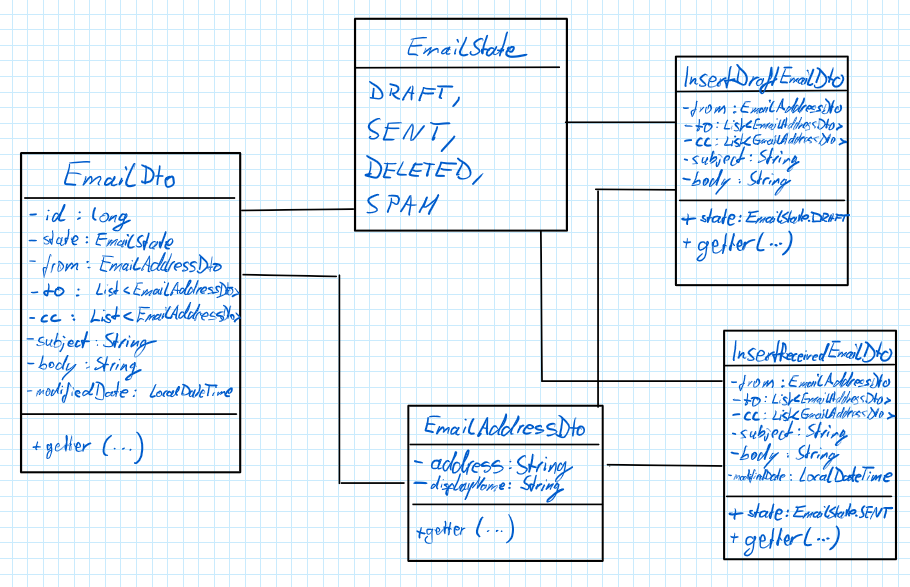
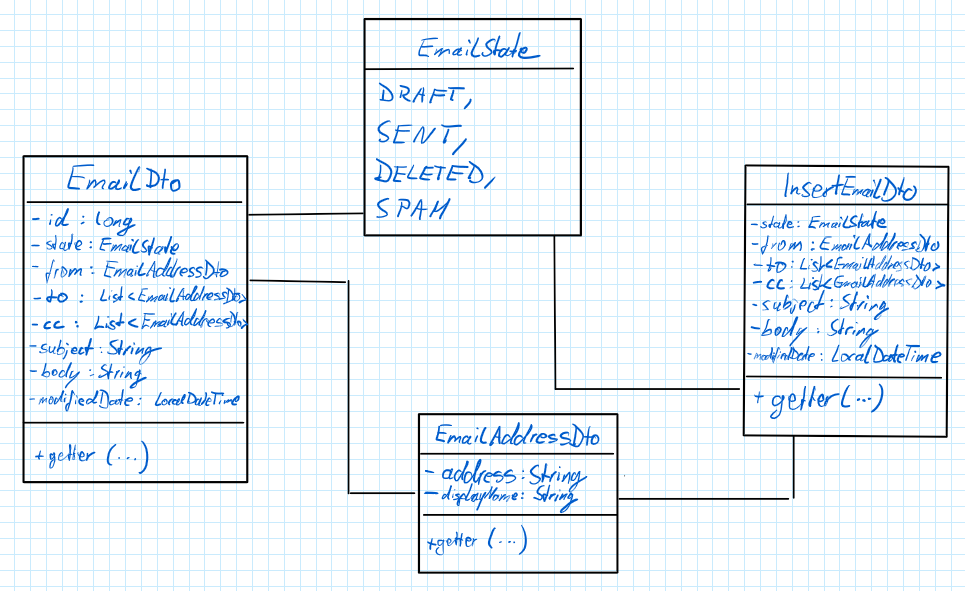
Merges both insert DTOs to one single DTO

diff --git a/src/test/java/de/jjakobus/emailrestservice/EmailRestServiceAppIT.java b/src/test/java/de/jjakobus/emailrestservice/EmailRestServiceAppIT.java
@@ -5,8 +5,7 @@ import de.jjakobus.emailrestservice.model.EmailAddress;
 import de.jjakobus.emailrestservice.model.EmailState;
 import de.jjakobus.emailrestservice.model.dtos.EmailAddressDto;
 import de.jjakobus.emailrestservice.model.dtos.EmailDto;
-import de.jjakobus.emailrestservice.model.dtos.InsertDraftEmailDto;
-import de.jjakobus.emailrestservice.model.dtos.InsertReceivedEmailDto;
+import de.jjakobus.emailrestservice.model.dtos.InsertEmailDto;
 import de.jjakobus.emailrestservice.service.repositories.EmailAddressRepository;
 import de.jjakobus.emailrestservice.service.repositories.EmailRepository;
 import org.junit.jupiter.api.BeforeEach;
@@ -111,15 +110,15 @@ class EmailRestServiceAppIT {
   /* Test CRUD endpoints exemplary. */
 
   @Test
-  void shouldInsertDraftMail() {
+  void shouldInsertMail() {
     // Given
-    InsertDraftEmailDto newDraftEmail = getNewDraftEmail();
+    InsertEmailDto newEmail = getNewEmail();
 
     // When
     ResponseEntity<EmailDto> response =
         restTemplate.postForEntity(
-            baseRequestAddress + "/insert-draft",
-            newDraftEmail,
+            baseRequestAddress + "/insert",
+            newEmail,
             EmailDto.class);
     EmailDto returnedEmail = response.getBody();
 
@@ -130,8 +129,8 @@ class EmailRestServiceAppIT {
     assertThat(returnedEmail)
         .as("Returned email should be present (not null).")
         .isNotNull()
-        .as("Returned stored email should contain all information from inserted draft email.")
-        .matches(email -> containsAllInformationFromInsertDraftDto(email, newDraftEmail));
+        .as("Returned stored email should contain all information from inserted email.")
+        .matches(storedEmail -> containsAllInformationFromInsertDto(storedEmail, newEmail));
     assertThat(emailRepository.findEmailById(returnedEmail.id()))
         .as("Inserted email should be present in store.")
         .isPresent().get()
@@ -140,63 +139,15 @@ class EmailRestServiceAppIT {
   }
 
   /**
-   * Checks whether given {@link EmailDto} contains all the information given by the {@link InsertDraftEmailDto}.
+   * Checks whether given {@link EmailDto} contains all the information given by the {@link InsertEmailDto}.
    *
    * @param email email to check
-   * @param insertDto inserted draft email
+   * @param insertDto inserted email
    * @return whether email contains all information
    */
-  private static boolean containsAllInformationFromInsertDraftDto(
+  private static boolean containsAllInformationFromInsertDto(
       EmailDto email,
-      InsertDraftEmailDto insertDto) {
-
-    return insertDto.state().equals(EmailState.DRAFT)
-        && insertDto.from().equals(email.from())
-        && insertDto.to().equals(email.to())
-        && insertDto.cc().equals(email.cc())
-        && insertDto.subject().equals(email.subject())
-        && insertDto.body().equals(email.body());
-  }
-
-  @Test
-  void shouldInsertReceivedMail() {
-    // Given
-    InsertReceivedEmailDto newReceivedEmail = getNewReceivedEmail();
-
-    // When
-    ResponseEntity<EmailDto> response =
-        restTemplate.postForEntity(
-            baseRequestAddress + "/insert-received",
-            newReceivedEmail,
-            EmailDto.class);
-    EmailDto returnedEmail = response.getBody();
-
-    // Then
-    assertThat(response.getStatusCode())
-        .as("HTTP status should be 201 (created).")
-        .isEqualTo(HttpStatus.CREATED);
-    assertThat(returnedEmail)
-        .as("Returned email should be present (not null).")
-        .isNotNull()
-        .as("Returned stored email should contain all information from inserted received email.")
-        .matches(email -> containsAllInformationFromInsertReceivedDto(email, newReceivedEmail));
-    assertThat(emailRepository.findEmailById(returnedEmail.id()))
-        .as("Inserted email should be present in store.")
-        .isPresent().get()
-        .as("Service-side mail should be equal to returned email.")
-        .returns(true, returnedEmail::equals);
-  }
-
-  /**
-   * Checks whether given {@link EmailDto} contains all the information given by the {@link InsertReceivedEmailDto}.
-   *
-   * @param email email to check
-   * @param insertDto inserted received email
-   * @return whether email contains all information
-   */
-  private static boolean containsAllInformationFromInsertReceivedDto(
-      EmailDto email,
-      InsertReceivedEmailDto insertDto) {
+      InsertEmailDto insertDto) {
 
     return insertDto.state().equals(EmailState.SENT)
         && insertDto.from().equals(email.from())
@@ -310,29 +261,14 @@ class EmailRestServiceAppIT {
   }
 
   /**
-   * Returns a new draft email that is not stored in database yet.
+   * Returns a new email that is not stored in database yet.
    *
-   * @return new draft email
+   * @return new email
    */
-  private static InsertDraftEmailDto getNewDraftEmail() {
+  private static InsertEmailDto getNewEmail() {
 
-    return new InsertDraftEmailDto(
-        new EmailAddressDto("peter.mueller@gmx.de", "Peter Müller <peter.mueller(a)gmx.de>"),
-        List.of(),
-        List.of(),
-        "Test subject",
-        ""
-    );
-  }
-
-  /**
-   * Returns a new received email that is not stored in database yet.
-   *
-   * @return new received email
-   */
-  private static InsertReceivedEmailDto getNewReceivedEmail() {
-
-    return new InsertReceivedEmailDto(
+    return new InsertEmailDto(
+        EmailState.DRAFT,
         new EmailAddressDto("juergen.vogel@web.de", null),
         List.of(
             new EmailAddressDto("peter.mueller@gmx.de", "Peter Müller <peter.mueller(a)gmx.de>")),

diff --git a/src/main/java/de/jjakobus/emailrestservice/model/dtos/InsertEmailDto.java b/src/main/java/de/jjakobus/emailrestservice/model/dtos/InsertEmailDto.java
@@ -8,10 +8,9 @@ import java.util.List;
 import static java.util.Objects.requireNonNull;
 
 /**
- * Representation of a new received email that should get inserted. Received emails already have a date which gets used
- * as creation (and modified) date. But no ID is present because those are unique to this server, only.
- * State is "SENT" always.
+ * Representation of a new email that should get inserted. Those email do not have an ID yet.
  *
+ * @param state state of the email
  * @param from sender address
  * @param to receiver addresses
  * @param cc "carbon copy" receiver addresses
@@ -20,7 +19,8 @@ import static java.util.Objects.requireNonNull;
  * @param modifiedDate date of the email received (= last modification date)
  * @author jjakobus
  */
-public record InsertReceivedEmailDto(
+public record InsertEmailDto(
+    EmailState state,
     EmailAddressDto from,
     List<EmailAddressDto> to,
     List<EmailAddressDto> cc,
@@ -28,27 +28,20 @@ public record InsertReceivedEmailDto(
     String body,
     LocalDateTime modifiedDate) {
 
-  public InsertReceivedEmailDto(
+  public InsertEmailDto(
+      EmailState state,
       EmailAddressDto from,
       List<EmailAddressDto> to,
       List<EmailAddressDto> cc,
       String subject,
       String body,
       LocalDateTime modifiedDate) {
+    this.state = requireNonNull(state, "state must not be null.");
     this.from = requireNonNull(from, "from must not be null.");
     this.to = requireNonNull(to, "to must not be null.");
     this.cc = requireNonNull(cc, "cc must not be null.");
     this.subject = requireNonNull(subject, "subject must not be null.");
     this.body = requireNonNull(body, "body must not be null.");
     this.modifiedDate = requireNonNull(modifiedDate, "modifiedDate must not be null.");
-  }
-
-  /**
-   * Returns the state of the email, which is "SENT" all the time.
-   *
-   * @return state "SENT"
-   */
-  public EmailState state() {
-    return EmailState.SENT;
   }
 }

diff --git a/design-process.md b/design-process.md
@@ -43,12 +43,18 @@ access the data of a database's table. The "data" types are the model's classes 
 entities (`@Entity`) for this purpose.
 ![DTOs of model used in email service](email-service-model-dtos.png)
 Additionally, there are DTOs (Data Transfer Objects) types/classes. While
-entities are mutable per se, the DTOs enable to pass immutable objects between service and clients. Further more
-specialised versions for different use cases/requests can be used to allow best-possible validation by using the DTO
-definitions,
-e.g. [InsertNewDraftEmailDto.java](src/main/java/de/jjakobus/emailrestservice/model/dtos/InsertDraftEmailDto.java).
+entities are mutable per se, the DTOs enable to pass immutable objects between service and clients. Further more there
+is no ID yet when a new email should get inserted, but gets generated by the server at insertion time. For this case
+there is [InsertNewEmailDto.java](src/main/java/de/jjakobus/emailrestservice/model/dtos/InsertEmailDto.java).
 
-Details on Controller (endpoints)...
+The controller defines the REST endpoints needed for required CRUD operations. There are these four endpoints:
+
+| # | CRUD   | path           | method | success code  | return type | failure code(s) |
+|---|--------|----------------|--------|---------------|-------------|-----------------|
+| 1 | Create | /insert        | POST   | 201 (created) | EmailDto    | 500 (error)     |
+| 3 | Read   | /query?id={id} | GET    | 200 (ok)      | EmailDto    | 404 (not found) |
+| 4 | Update | /update        | PUT    | 200 (ok)      | /           | 404 (not found) |
+| 5 | Delete | /delete/{id}   | DELETE | 200 (ok)      | /           | 404 (not found) |
 
 Details on Services (types)...
 
